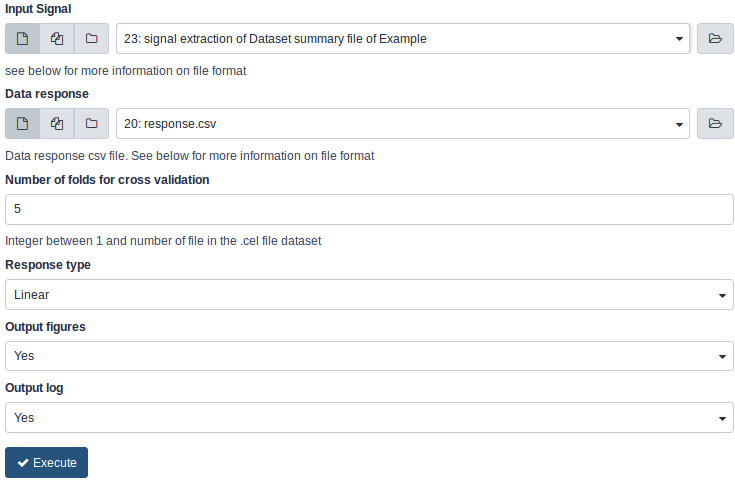
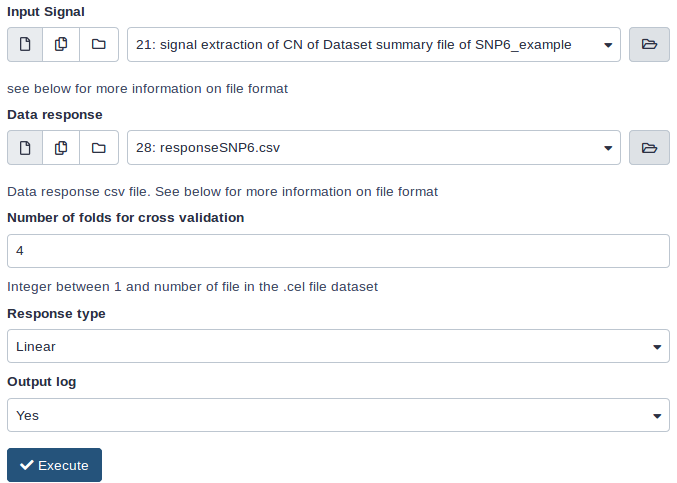
update filter and selection figures

diff --git a/README.md b/README.md
@@ -238,10 +238,9 @@ The outputs are :
 
 ### Filtering
 
-<!---                            
-This tool filters results obtained by the segmentation and calling tool.
+This tool filters results obtained by the *segmentation and calling* tool.
                             
-![enter image description here](https://github.com/sblanck/MPAgenomics4Galaxy/raw/master/images/filter.png)
+![](https://github.com/sblanck/MPAgenomics4Galaxy/raw/master/images/filter.png)
                     
 The *Filter* tool have the following inputs :
                             
@@ -261,16 +260,16 @@ The outputs are :
       * means: Mean of the segment.
       * calls: Calling of the segment (”double loss”, ”loss”, ”normal”, ”gain” or ”amplification”).
   * An optionnal log file
--->
+
                             
 ### Markers selection
 
-<!---
+
 This tool selects some relevant markers from normalized signal matrix data , according to a response using penalized regressions.
                             
-If you want to run this example, you need first to upload the [response.csv](https://github.com/sblanck/MPAgenomics4Galaxy/blob/master/reponse.csv) file available on this github.
+<!--If you want to run this example, you need first to upload the [response.csv](https://github.com/sblanck/MPAgenomics4Galaxy/blob/master/reponse.csv) file available on this github.-->
                             
-![Marker Selection](https://github.com/sblanck/MPAgenomics4Galaxy/raw/master/images/selection_extract.png)
+![](https://github.com/sblanck/MPAgenomics4Galaxy/raw/master/images/selection_extract.png)
                             
 The inputs are :
 
